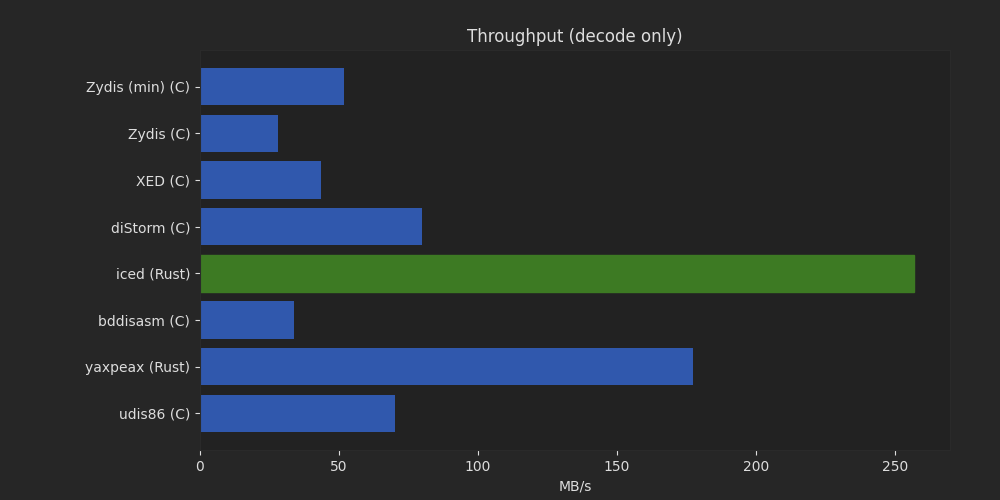
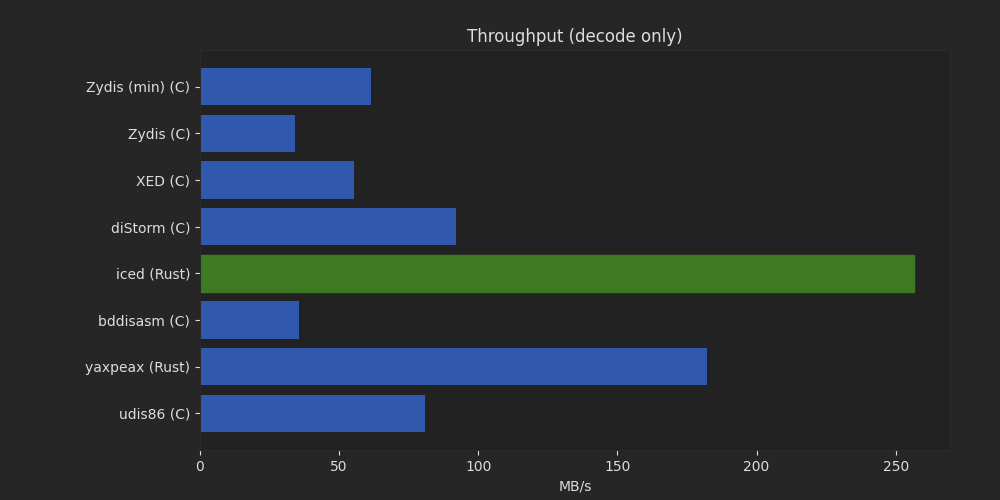
Update with Linux gcc results

diff --git a/README.md b/README.md
@@ -5,7 +5,7 @@ This repository holds benchmarking code for various x86/x86-64 disassembler libr
 
 ## Results
 
-Windows 10, msvc 19.29, Rust 1.52.1, i5-6600K.
+Kubuntu 21.04, gcc 10.3.0, Rust 1.52.1, i5-6600K.
 
 Test file: xul.dll from Firefox 86.0.1.7739 (77MB code section).
 
@@ -15,14 +15,14 @@ Test file: xul.dll from Firefox 86.0.1.7739 (77MB code section).
 
 Library | MB/s | %
 --------|------|--
-iced (Rust) | 257.07 MB/s | 100.00%
-yaxpeax (Rust) | 177.55 MB/s | 69.07%
-diStorm (C) | 79.95 MB/s | 31.10%
-udis86 (C) | 70.35 MB/s | 27.37%
-Zydis (min) (C) | 51.99 MB/s | 20.22%
-XED (C) | 43.45 MB/s | 16.90%
-bddisasm (C) | 33.69 MB/s | 13.10%
-Zydis (C) | 27.96 MB/s | 10.88%
+iced (Rust) | 256.69 MB/s | 100.00%
+yaxpeax (Rust) | 182.08 MB/s | 70.93%
+diStorm (C) | 92.17 MB/s | 35.91%
+udis86 (C) | 80.72 MB/s | 31.44%
+Zydis (min) (C) | 61.33 MB/s | 23.89%
+XED (C) | 55.39 MB/s | 21.58%
+bddisasm (C) | 35.48 MB/s | 13.82%
+Zydis (C) | 34.19 MB/s | 13.32%
 
 `BeaEngine (C)`, `Capstone (C)` don't support `decode only`.
 
@@ -33,15 +33,15 @@ Zydis (C) | 27.96 MB/s | 10.88%
 
 Library | MB/s | %
 --------|------|--
-iced (Rust) | 135.71 MB/s | 100.00%
-diStorm (C) | 51.66 MB/s | 38.07%
-yaxpeax (Rust) | 36.71 MB/s | 27.05%
-Zydis (C) | 18.62 MB/s | 13.72%
-BeaEngine (C) | 14.65 MB/s | 10.79%
-bddisasm (C) | 13.69 MB/s | 10.09%
-udis86 (C) | 12.00 MB/s | 8.84%
-Capstone (C) | 11.21 MB/s | 8.26%
-XED (C) | 11.18 MB/s | 8.24%
+iced (Rust) | 149.21 MB/s | 100.00%
+diStorm (C) | 58.85 MB/s | 39.44%
+yaxpeax (Rust) | 40.05 MB/s | 26.84%
+Zydis (C) | 22.24 MB/s | 14.91%
+bddisasm (C) | 16.00 MB/s | 10.72%
+XED (C) | 15.67 MB/s | 10.50%
+Capstone (C) | 14.02 MB/s | 9.39%
+BeaEngine (C) | 13.42 MB/s | 8.99%
+udis86 (C) | 12.02 MB/s | 8.05%
 
 
 ## Candidates
